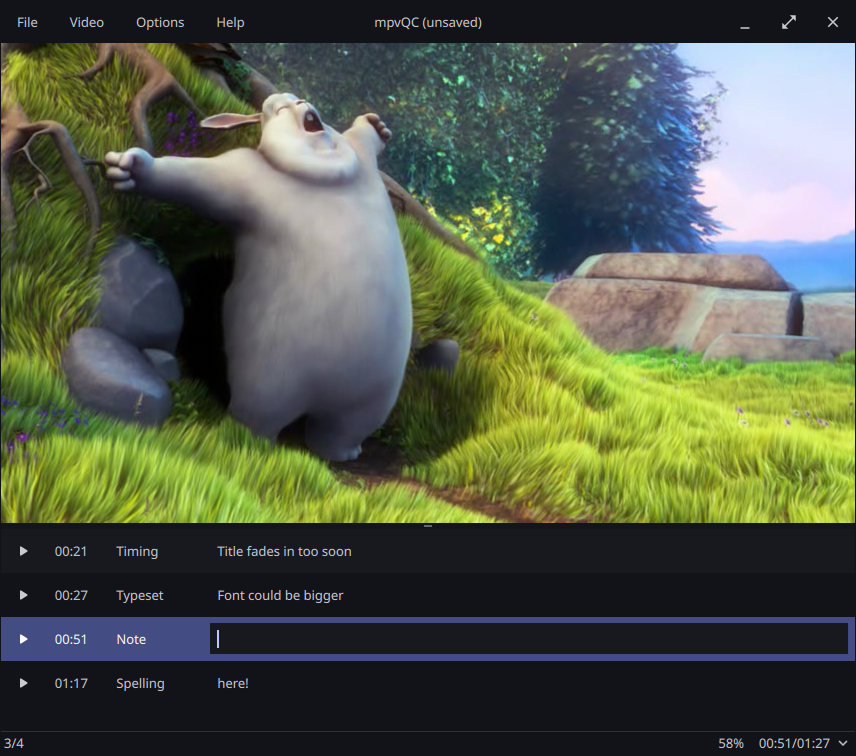
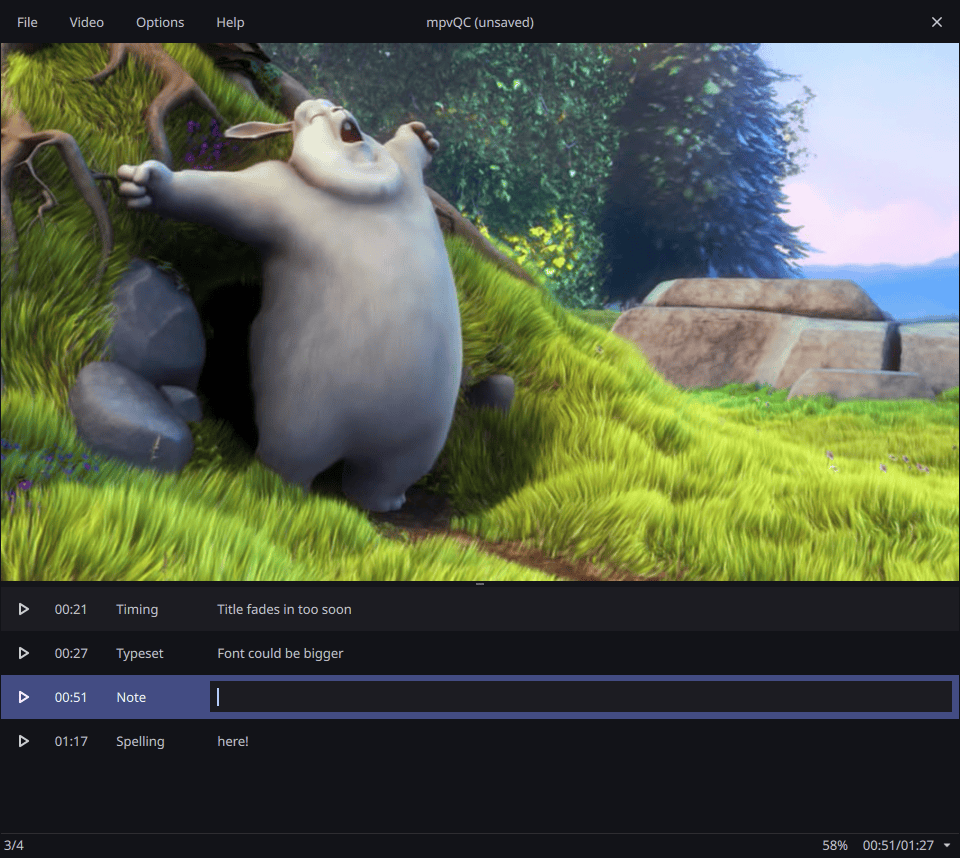
Release 0.9.0 beta2 (#16)
* build: bump template version
* docs: update export template documentation
* chore: update screenshots

diff --git a/content/export-templates.md b/content/export-templates.md
@@ -6,70 +6,76 @@ draft: false
 
 # Export Templates
 
-mpvQC allows for customizing report exports using the [Jinja template](https://jinja.palletsprojects.com/en/3.1.x/)
-engine. To begin, follow these steps:
+mpvQC uses the [Jinja template](https://jinja.palletsprojects.com/en/3.1.x/) engine to customize how QC reports are
+exported. This allows you to control the format and structure of your exported documents.
 
-1. Create a new file in the `export-template` directory with the **.jinja** extension (e.g., `MyTemplate.jinja`). The
-   location of the `export-template` directory varies depending on your operating system:
-    * On Windows: `appdata/export-templates`
-    * On Linux: `~/.var/app/io.github.mpvqc.mpvQC/config/mpvQC/export-templates`
-1. Edit the template
-1. Restart mpvQC
+## Getting Started
 
-Afterward, the file menu will include a new option to export reports using the newly customized template.
+1. Create a new file with the **.jinja** extension (e.g., `MyTemplate.jinja`) in the appropriate directory:
+    * **Windows**: `appdata/export-templates`
+    * **Linux**: `~/.var/app/io.github.mpvqc.mpvQC/config/mpvQC/export-templates`
+2. Edit the template file using any text editor
+3. Restart mpvQC to load the new template
 
-# Documentation
+Once loaded, your custom template will appear as a new export option in the File menu.
 
-Alongside default Jinja expressions, mpvQC introduces the following **Properties** and **Filters**:
+## Template Reference
 
-## Properties
+In addition to standard Jinja expressions, mpvQC provides the following properties and filters:
 
-| Name               | Type           | Description                                                                                        |
-|--------------------|----------------|----------------------------------------------------------------------------------------------------|
-|                    |                | &nbsp;                                                                                             |
-| `write_date`       | `bool`         | Indicates whether the current date and time should be included in reports.                         |
-| `date`             | `str`          | Date and time formatted according to the user's selected language (QLocale.FormatType.LongFormat). |
-|                    |                | &nbsp;                                                                                             |
-| `write_generator`  | `bool`         | Indicates whether the report should include the generator name and version (e.g., "mpvQC 0.9.0").  |
-| `generator`        | `str`          | The name and version of mpvQC being used.                                                          |
-|                    |                | &nbsp;                                                                                             |
-| `write_video_path` | `bool`         | Indicates whether the path of the video should be included in reports.                             |
-| `video_path`       | `str`          | The absolute path of the video file, or an empty string if no video is present.                    |
-| `video_name`       | `str`          | The name and extension of the video file, or an empty string if no video is present.               |
-|                    |                | &nbsp;                                                                                             |
-| `write_nickname`   | `bool`         | Indicates whether the user's nickname should be included in reports.                               |
-| `nickname`         | `str`          | The nickname of the person creating the report.                                                    |
-|                    |                | &nbsp;                                                                                             |
-| `comments`         | `list[object]` | A list of comment objects, each with the following properties:                                     |
-|                    |                | `time: int`:  Time in seconds.                                                                     |               
-|                    |                | `commentType: str` Type of comment.                                                                |                
-|                    |                | `comment: str` The actual comment.                                                                 |    
+### Properties
 
-## Filters
+|                          |              |                                                                     |
+|--------------------------|--------------|---------------------------------------------------------------------|
+| **Report Metadata**      |              |                                                                     |
+| `write_date`             | `bool`       | Whether to include the export date/time                             |
+| `date`                   | `str`        | Current date/time formatted according to user's locale (LongFormat) |
+| `write_generator`        | `bool`       | Whether to include the generator information                        |
+| `generator`              | `str`        | mpvQC version string (e.g., "mpvQC 0.9.0")                          |
+| &nbsp;                   |              |                                                                     |
+| **Video Information**    |              |                                                                     |
+| `write_video_path`       | `bool`       | Whether to include the video file path                              |
+| `video_path`             | `str`        | Absolute path to the video file (empty if no video loaded)          |
+| `video_name`             | `str`        | Video filename with extension (empty if no video loaded)            |
+| &nbsp;                   |              |                                                                     |
+| **User Information**     |              |                                                                     |
+| `write_nickname`         | `bool`       | Whether to include the user's nickname                              |
+| `nickname`               | `str`        | User's nickname for report attribution                              |
+| &nbsp;                   |              |                                                                     |
+| **Subtitle Information** |              |                                                                     |
+| `write_subtitle_paths`   | `bool`       | Whether to include manually imported subtitle paths                 |
+| `subtitles`              | `list[str]`  | List of subtitle file paths                                         |
+| &nbsp;                   |              |                                                                     |
+| **Comments**             |              |                                                                     |
+| `comments`               | `list[dict]` | List of comment dictionaries containing:                            |
+|                          |              | • `time` (int): Time in seconds                                     |
+|                          |              | • `commentType` (str): Type of comment                              |
+|                          |              | • `comment` (str): The comment text                                 |
 
-| Name              | Description                                                                                                                                                  |
-|-------------------|--------------------------------------------------------------------------------------------------------------------------------------------------------------|
-|                   | &nbsp;                                                                                                                                                       |
-| `as_time`         | Converts an `int` representing time in seconds into an `HH:mm:ss` formatted string.                                                                          |
-|                   | Example: `[{{ comment['time'] \| as_time }}]` will output `[00:00:00]` for a time value of `0` while iterating over comments.                                |
-| `as_comment_type` | Translates the comment type into the user's currently selected language.                                                                                     |
-|                   | Example: `[{{ comment['commentType'] \| as_comment_type }}]` will output `[Ausdruck]` for a `commentType` value of `Phrasing` while iterating over comments. |
+### Filters
 
-# Example Template
+| Filter            | Purpose                                    | Usage                                                                   |
+|-------------------|--------------------------------------------|-------------------------------------------------------------------------|
+| `as_time`         | Converts seconds to `HH:mm:ss` format      | `{{ comment['time'] \| as_time }}` → `00:00:00`                         |
+| `as_comment_type` | Translates comment type to user's language | `{{ comment['commentType'] \| as_comment_type }}` → Localized type name |
 
-Internally, mpvQC utilizes the following template to save Quality Control (QC) documents:
+## Default Template
+
+mpvQC uses this template internally for saving QC documents:
 
 ```
 [FILE]
-{{ 'date      : ' + date + '\n' if write_date else '' -}}
-{{ 'generator : ' + generator + '\n' if write_generator else '' -}}
-{{ 'nick      : ' + nickname + '\n' if write_nickname else '' -}}
+{{ 'date      : ' + date + '\n'       if write_date       else '' -}}
+{{ 'generator : ' + generator + '\n'  if write_generator  else '' -}}
+{{ 'nick      : ' + nickname + '\n'   if write_nickname   else '' -}}
 {{ 'path      : ' + video_path + '\n' if write_video_path else '' -}}
+{% for subtitle in subtitles if write_subtitle_paths -%}
+  subtitle  : {{ subtitle }}
+{% endfor -%}
 
 {{ '\n' }}[DATA]
 {% for comment in comments -%}
 [{{ comment['time'] | as_time }}] [{{ comment['commentType'] | as_comment_type }}] {{ comment['comment'] | trim }}
 {% endfor -%}
-
 # total lines: {{ comments | count }}
 ```
